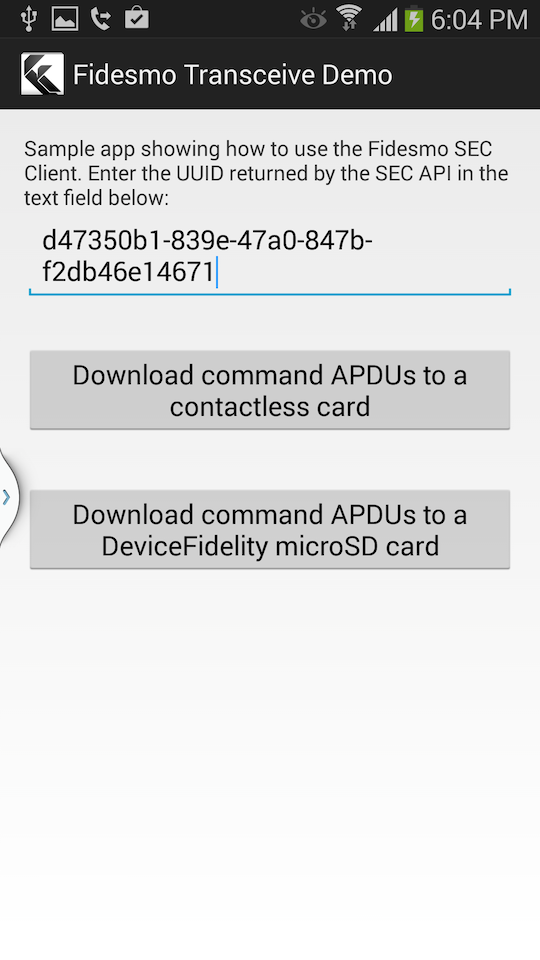
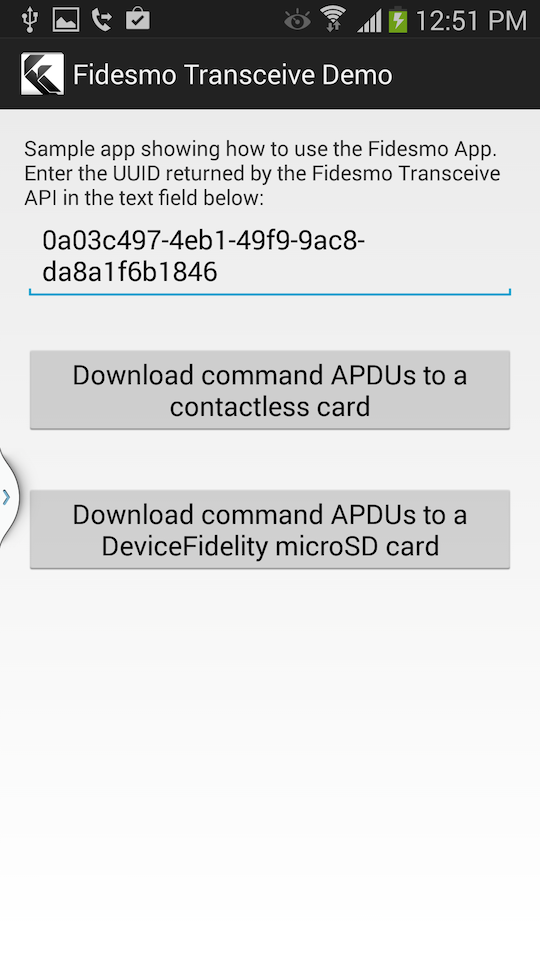
Update product names

Changed region(s): [[0.0296, 0.125, 0.9481, 0.3125], [0.5333, 0.0, 0.9778, 0.0625], [0.0296, 0.0, 0.2963, 0.0312]]

diff --git a/src/com/fidesmo/sec/transceivedemo/MainActivity.java b/src/com/fidesmo/sec/transceivedemo/MainActivity.java
@@ -20,7 +20,7 @@ public class MainActivity extends Activity {
     // String for LogCat documentation
     private final static String TAG = "Fidesmo-Transceive-Demo";
 
-    // String constants defining the intent for using Fidesmo SEC Client
+    // String constants defining the intent for using Fidesmo App
     private final static String INTENT_URI = "https://api.fidesmo.com/transaction/";
     private final static String TRANSCEIVE_CARD_ACTION = "com.fidesmo.sec.TRANSCEIVE";
     private final static String TRANSCEIVE_MICROSD_ACTION = "com.fidesmo.sec.TRANSCEIVE_DEVICE_FIDELITY";
@@ -42,9 +42,9 @@ public class MainActivity extends Activity {
             @Override
             public void onClick(View v) {
                 Log.i(TAG, "Pushed the Transceive To Card button");
-                // call the SEC Client's activity to send APDUs to a contactless
-                // card
-                callFidesmoSECClient(TRANSCEIVE_CARD_ACTION, uuidInput.getText().toString());
+                // call the Fidesmo App's activity to send APDUs to a
+                // contactless card
+                callFidesmoApp(TRANSCEIVE_CARD_ACTION, uuidInput.getText().toString());
             }
         });
 
@@ -52,9 +52,9 @@ public class MainActivity extends Activity {
             @Override
             public void onClick(View v) {
                 Log.i(TAG, "Pushed the Transceive To Device Fidelity button");
-                // call the SEC Client's activity to send APDUs to a
+                // call the Fidesmo App's activity to send APDUs to a
                 // DeviceFidelity micro SD card
-                callFidesmoSECClient(TRANSCEIVE_MICROSD_ACTION, uuidInput.getText().toString());
+                callFidesmoApp(TRANSCEIVE_MICROSD_ACTION, uuidInput.getText().toString());
             }
         });
 
@@ -70,13 +70,13 @@ public class MainActivity extends Activity {
         toast.show();
     }
 
-    void callFidesmoSECClient(String action, String uuid) {
+    void callFidesmoApp(String action, String uuid) {
         try {
             // Verify that the UUID has a correct format by attempting to parse
             // it
             UUID.fromString(uuid);
-            // create Intent to one of the two Actions exposed by Fidesmo SEC
-            // Client
+            // create Intent to one of the two Actions exposed by the Fidesmo
+            // App
             Intent intent = new Intent(action, Uri.parse(INTENT_URI + uuid));
             startActivity(intent);
 

diff --git a/README.md b/README.md
@@ -1,13 +1,13 @@
 Android-Transceive-Demo
 =======================
 
-This repository contains a simple example client showing how to use *Fidesmo Secure Element Connection API* capabilities.
+This repository contains a simple example client showing how to use Fidesmo Service capabilities.
 In order to test it:
 
-1. Install the Fidesmo SEC Client in an NFC-enabled Android phone.
+1. Install the Fidesmo App in an NFC-enabled Android phone.
 2. Build this Transceive Demo (see instructions below) and install it in the same phone.
-3. Use [Fidesmo SEC API](https://fidesmo.3scale.net/docs) to prepare a set of Command APDUs for downloading. If you haven't done so yet, you can sign up to participate in our Beta in https://fidesmo.3scale.net/.
-4. Launch the Transceive Demo and type the UUID returned by [Fidesmo SEC API](https://fidesmo.3scale.net/docs)
+3. Use [Fidesmo Transceive API](https://fidesmo.3scale.net/docs) to prepare a set of Command APDUs for downloading. If you haven't done so yet, you can sign up to participate in our Beta at https://fidesmo.3scale.net/.
+4. Launch the Transceive Demo and type the UUID returned by [Fidesmo Transceive API](https://fidesmo.3scale.net/docs)
 5. Depending on the type of [Secure Element](http://www.globalplatform.org/mediaguideSE.asp) you are working with, push one of the two available buttons. The Command APDUs you entered in step 3 will be downloaded to the Secure Element!
 
 Build instructions
